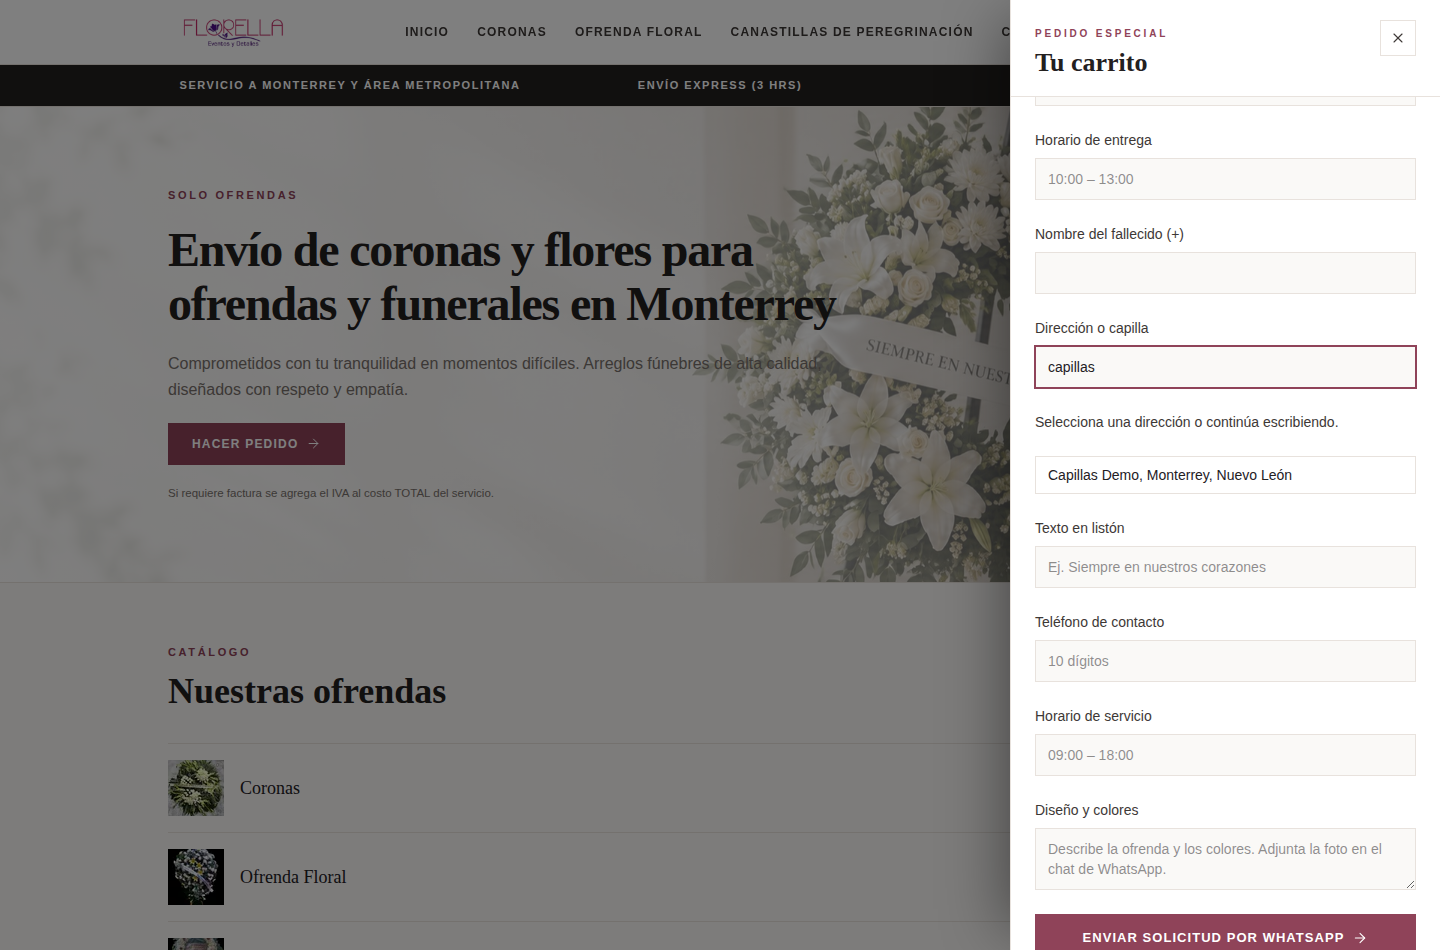
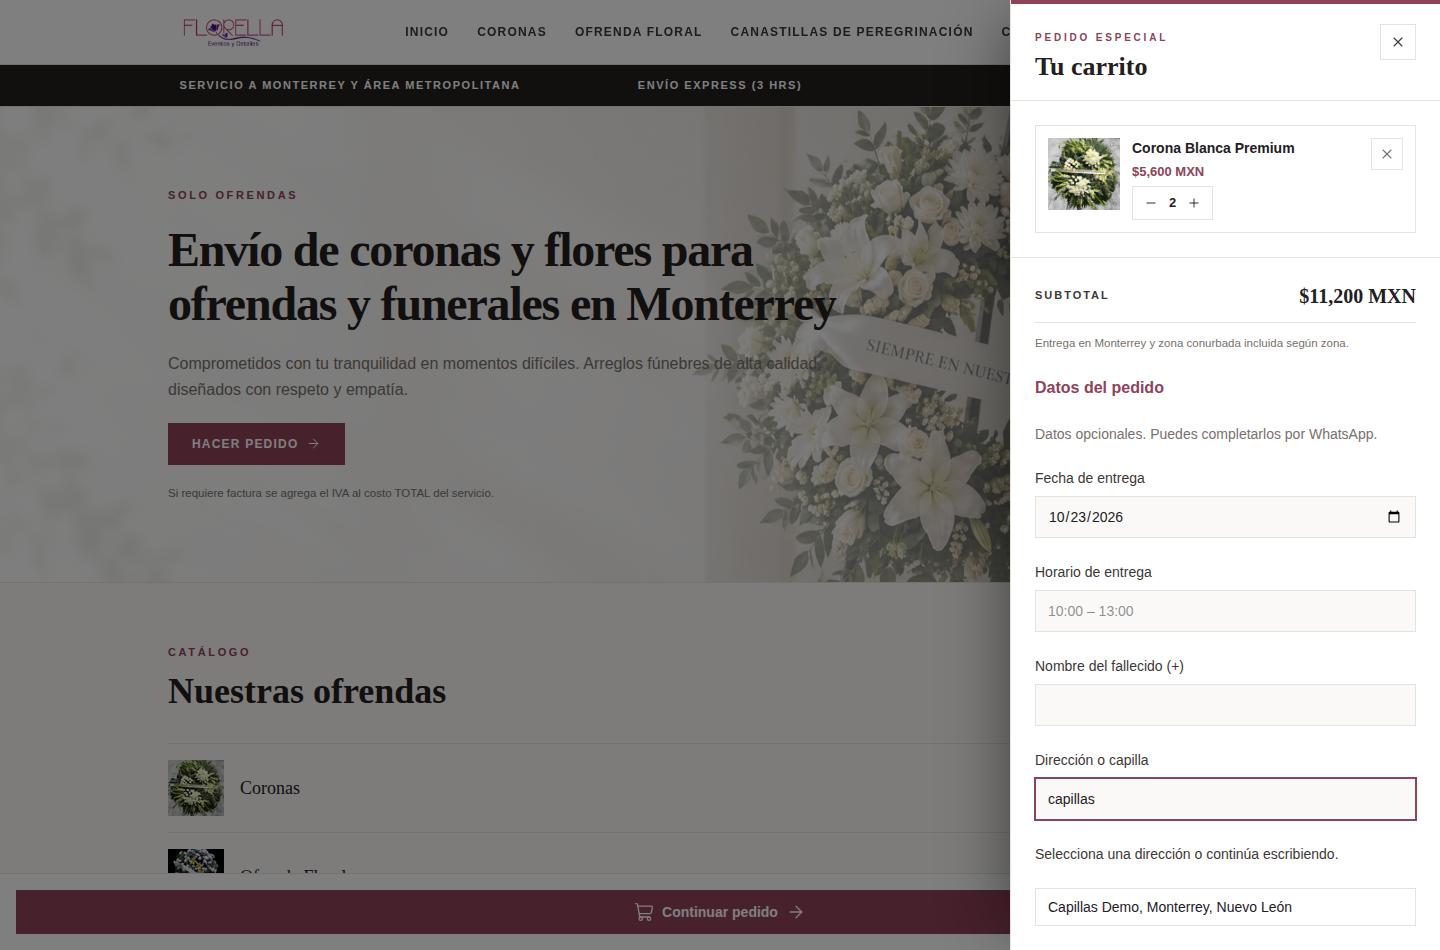
Fix Cloudflare fetch redirect mode and stale cart images

diff --git a/public/scripts/tienda.js b/public/scripts/tienda.js
@@ -62,7 +62,7 @@
         id: item.id,
         name: item.name || (known ? known.name : 'Arreglo'),
         price: Number.isFinite(Number(item.price)) ? Number(item.price) : (known ? known.price : 0),
-        image: item.image || (known ? known.image : ''),
+        image: (known ? known.image : '') || item.image || '',
         qty: Math.min(qty, 99),
       });
     });

diff --git a/worker.js b/worker.js
@@ -28,7 +28,7 @@ export default {
       const response = await fetch(target, {
         headers: { Authorization: `Bearer ${env.TRACCAR_TOKEN}`, Accept: 'application/json' },
         signal: AbortSignal.timeout(15000),
-        redirect: 'error',
+        redirect: 'manual',
       });
       if (!response.ok) {
         failureCode = `UPSTREAM_HTTP_${response.status}`;

diff --git a/docs/BUSCADOR.md b/docs/BUSCADOR.md
@@ -12,10 +12,16 @@ El límite de cinco solicitudes/segundo y cuatro concurrentes es por instancia d
 
 `npm test`: pruebas existentes y pruebas aisladas del Worker (secret saliente, región fija, entrada inválida, assets, filtrado de campos y errores sin exposición interna). `scripts/check-address-search.mjs`: navegador con respuestas interceptadas en escritorio/móvil y claro/oscuro; selección por teclado y escritura manual tras errores. Las capturas están en `docs/evidencias/buscador/`.
 
-10 pruebas funcionales y 6 comprobaciones del build pasan. Capturas de los cuatro perfiles inspeccionadas.
+12 pruebas funcionales y 6 comprobaciones del build pasan. Capturas de los cuatro perfiles inspeccionadas.
 
-`astro build` se comprobó con los snapshots existentes, sin sincronizar el catálogo real. No se usó la API de producción como backend de pruebas ni se verificaron los permisos reales de la cuenta. No se realizó una publicación manual en Cloudflare; un push puede activar el pipeline configurado por el propietario. El token proporcionado caduca el 30 de octubre de 2026 a las 06:00 UTC y debe renovarse como Secret antes de esa fecha.
+`astro build` se comprobó con los snapshots existentes, sin sincronizar el catálogo real. No se usó la API de producción como backend de pruebas ni se verificaron los permisos reales de la cuenta. No se realizó una publicación manual en Cloudflare; un push puede activar el pipeline configurado por el propietario. El Secret fue actualizado por el propietario; su vigencia se administra en Traccar.
 
 ## Diagnóstico de consulta
 
 Los errores 503 incluyen un `code` seguro: `UPSTREAM_HTTP_<estado>`, `UPSTREAM_TIMEOUT`, `UPSTREAM_CONNECTION_FAILED` o `UPSTREAM_INVALID_RESPONSE`. El mismo código aparece en logs de Cloudflare; no registra token, consulta ni cuerpo de la respuesta. El 23 de octubre se confirmó que el secret estaba presente y el token actualizado era aceptado por Traccar; una consulta operativa directa devolvió Capillas del Carmen con HTTP 200. La conexión desde el Worker seguía pendiente de diagnóstico con esta instrumentación.
+
+## Corrección del 503 y del carrito
+
+El Worker usaba `redirect: 'error'`, que Cloudflare no implementa y rechaza con TypeError antes de contactar al servidor. Se cambió a `manual`: las respuestas 3xx se rechazan por la comprobación HTTP existente sin reenviar el token. Referencia: https://developers.cloudflare.com/workers/runtime-apis/request/#properties. Una prueba comprueba explícitamente este comportamiento.
+
+El carrito restaura la imagen del producto actual cuando está en el catálogo de la página, en lugar de preferir la URL con hash guardada antes de un despliegue. Conserva cantidades y pedido. La prueba de navegador reproduce un carrito con imagen antigua y verifica la recuperación; productos ausentes del catálogo de la página conservan la imagen guardada.

diff --git a/BITACORA.md b/BITACORA.md
@@ -19,3 +19,7 @@ Rastro corto de cambios. Lo más reciente arriba.
 ## 23 de octubre de 2026 — Buscador conectado mediante Worker
 
 Campo de dirección con sugerencias del servicio de Traccar, Secret `TRACCAR_TOKEN` privado y región `Nuevo León` en `worker.js`. Assets conservados mediante Wrangler. Pruebas aisladas, compilación y cuatro perfiles de navegador correctos; permisos productivos y publicación Cloudflare pendientes de verificación. [Configuración y límites](docs/BUSCADOR.md).
+
+### Corrección del buscador y las imágenes guardadas
+
+`worker.js` usa redirección manual compatible con Cloudflare, sin seguir destinos ni reenviar credenciales. El carrito reutiliza la imagen vigente del producto presente en la página al restaurar pedidos guardados. Regresiones reproducidas antes del cambio; 12 pruebas unitarias, 6 de build y navegador en cuatro perfiles con datos sintéticos.
